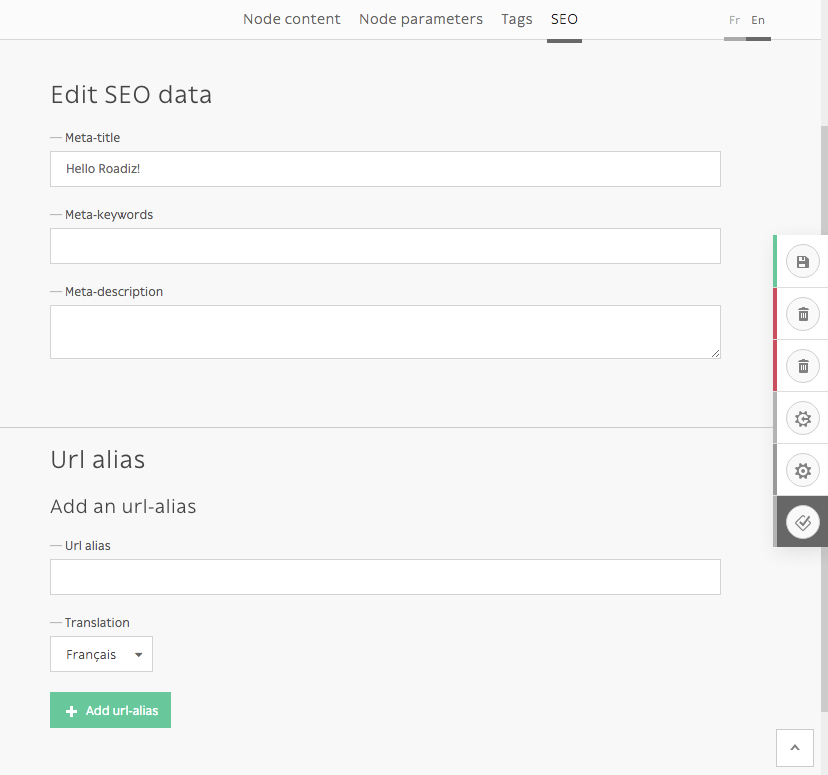
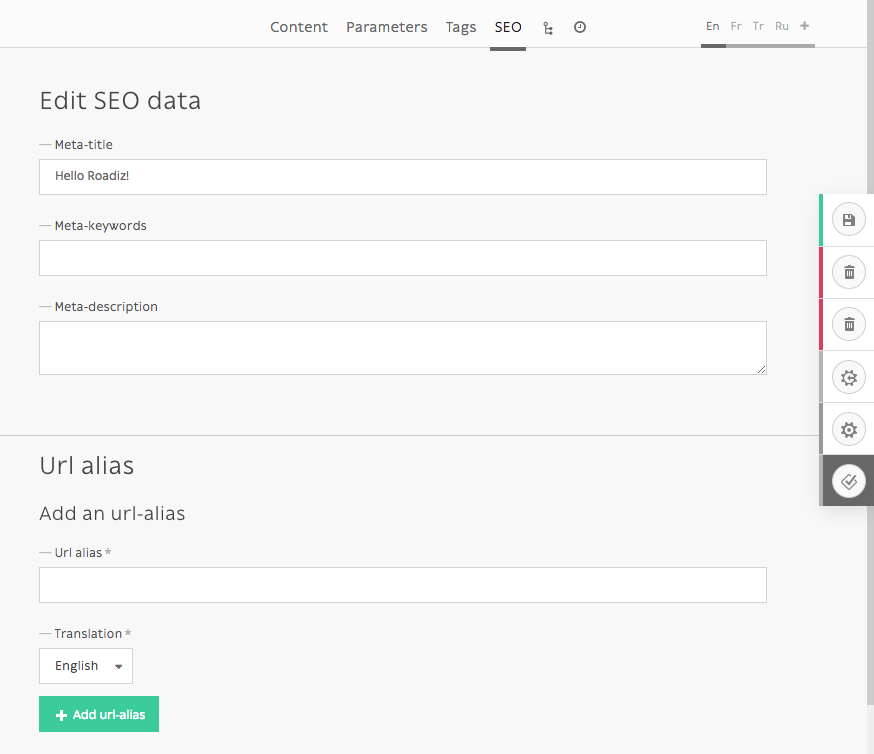
Some update on node edition.

diff --git a/user/nodes-system/managing-nodes.rst b/user/nodes-system/managing-nodes.rst
@@ -73,11 +73,13 @@ Edit an existing node
 
 Node edition page is composed in several tabs.
 
-- Node content
-- Node parameters
-- Tags
-- SEO
-- Tree, if your node is set up as a *container*
+- :ref:`Node content <node-content-tab>`
+- :ref:`Node parameters <node-parameters-tab>`
+- :ref:`Tags <node-tags-tab>`
+- :ref:`SEO <node-seo-tab>`
+- :ref:`Tree <node-tree-tab>`, if your node is set up as a :ref:`stack <side-actions-parameters>`
+
+.. _node-content-tab:
 
 Node content
 ^^^^^^^^^^^^
@@ -88,7 +90,9 @@ Node content
 Contents tab is basically the main part where you will edit your node specific data,
 using node-type fields such as *text* fields, or *documents* fields, etc.
 
-*This tab will display different content over translations.*
+This tab will display different content over translations depending on which fields are marked as *universal* or not.
+
+.. _node-parameters-tab:
 
 Node parameters
 ^^^^^^^^^^^^^^^
@@ -102,6 +106,24 @@ not be used so often as parameters will be set once by your developer.
 
 *This tab will display the same content over translations.*
 
+.. _side-actions-parameters:
+
+Side actions and parameters
+^^^^^^^^^^^^^^^^^^^^^^^^^^^
+
+Additional parameters are available on the right action-menu. These parameters are
+node-wide, they will apply on each node translations.
+
+.. image:: ./img/node-parameters-panel.png
+    :align: center
+
+- **Visibility**: Hide or show current node (according to your theme)
+- **Hide children**: Switch current node to a **stack**, children nodes won’t appear in the global Node-Tree anymore. You will be able to add *Stack type* buttons in the :ref:`node parameters tab <node-parameters-tab>`.
+- **Lock status**: Prevent users to delete current node or rename it. You should switch it on if your rely on some nodes in your themes.
+- **Forbid children**: Prevent users to create children nodes.
+
+.. _node-tags-tab:
+
 Tags
 ^^^^
 
@@ -109,6 +131,8 @@ Tags
     :align: center
 
 *This tab will display the same content over translations.*
+
+.. _node-seo-tab:
 
 SEO
 ^^^
@@ -118,8 +142,30 @@ SEO
 
 *This tab will display different content over translations.*
 
-.. Tree
-.. ^^^^
+.. _node-tree-tab:
+
+Tree
+^^^^
+
+When a node is defined as a :ref:`stack <side-actions-parameters>`, *Tree* becomes its default view. You can set the
+default ordering in the *Edit tab*. And node-types set as *publishable* will display their publication date before its name.
+
+.. image:: ./img/node-tree-tab.png
+    :align: center
+
+Tree view becomes very interesting if you have many many children nodes, when you have blog posts
+or portfolio projects for example. 
+
+.. image:: ./img/add-stack-type.png
+    :align: center
+
+Then you can add *stack type* in *Edit tab* to make some handy 
+quick-add buttons to this view.
+
+.. image:: ./img/quick-add-button.png
+    :align: center
+
+
 
 Nodes publication system
 ------------------------
